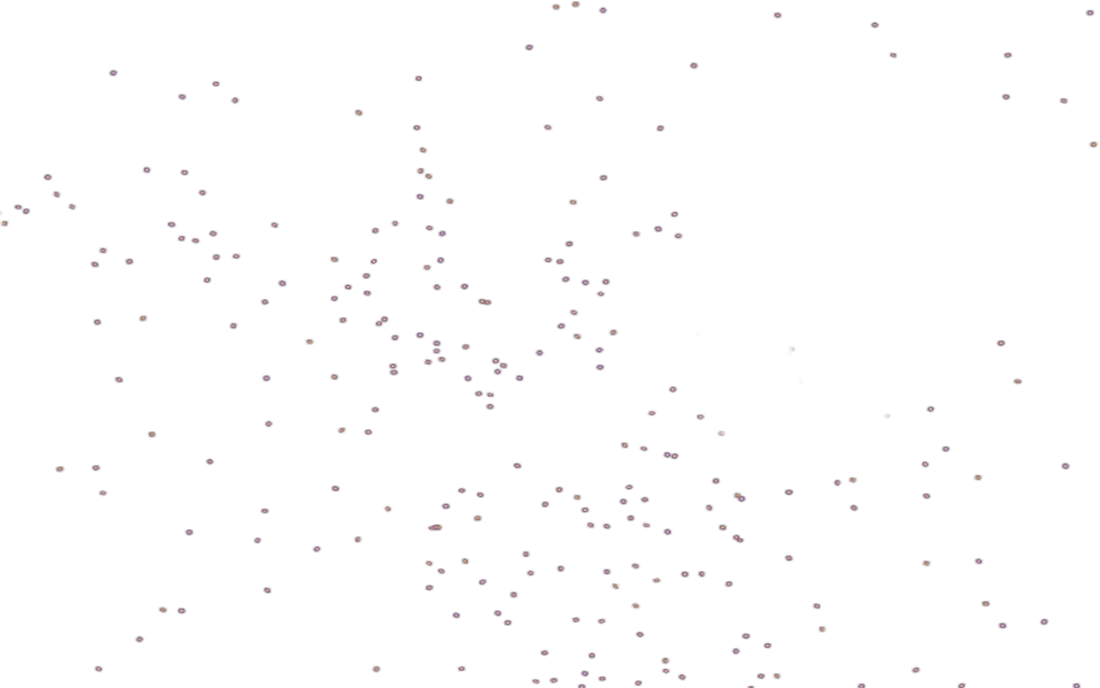
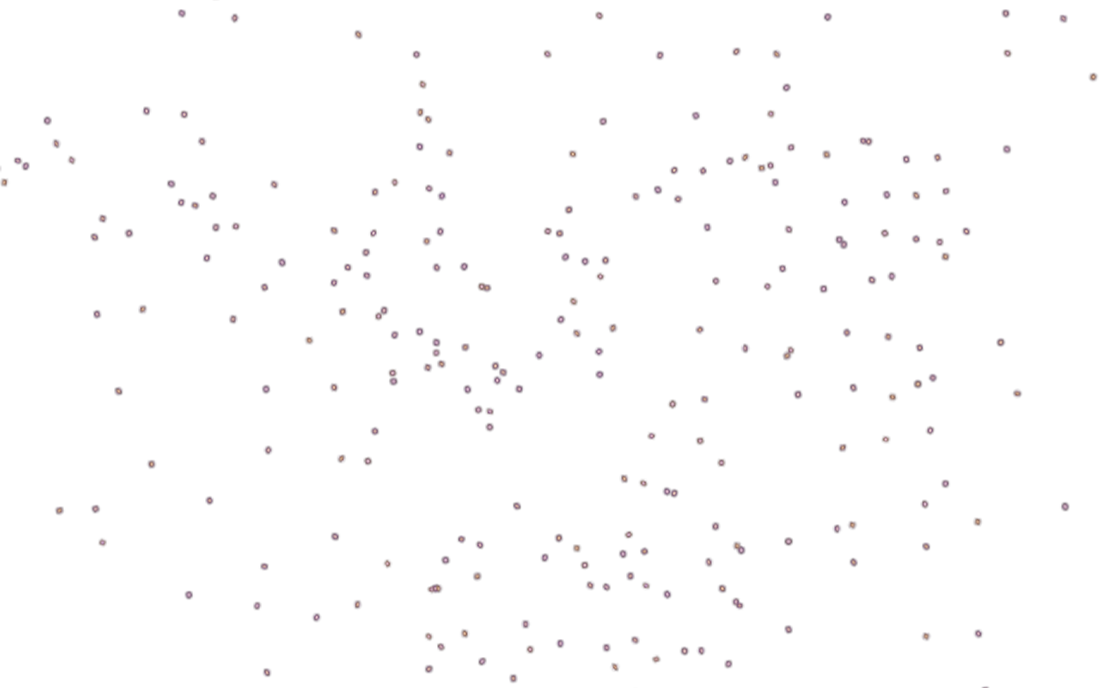
background moves

diff --git a/background.py b/background.py
@@ -9,38 +9,130 @@ screen = pygame.display.set_mode((w, h))
 
 
 
+# class Background(Sprite):
+#     def __init__(self):
+#         Sprite.__init__(self)
+       
+
+#         self.image = pygame.image.load("stars.png").convert_alpha()
+#         self.image_copy = self.image.copy()
+
+#         self.rect = self.image.get_rect()
+#         self.rect_copy = self.image_copy.get_rect()
+
+       
+
+#         self.rect.left = 0
+#         self.rect_copy.right = 0
+
+#         self.speedx = 10
+       
+#     def update(self):
+        
+
+#         self.rect.x -= self.speedx
+#         if self.rect.right < 0:
+#             self.rect.left = w
+
+#         self.rect_copy.x -= self.speedx
+#         if self.rect_copy.right < 0:
+#             self.rect_copy.left = w
+
 class Background(Sprite):
     def __init__(self):
-        pygame.sprite.Sprite.__init__(self)
+        Sprite.__init__(self)
+       
+
         self.image = pygame.image.load("stars.png").convert_alpha()
+   
+        self.rect = self.image.get_rect()
+
+        self.rect.right = 0
+      
+
+        self.speedx = 10
+       
+    def update(self):
+        
+
+        self.rect.x += self.speedx
+        if self.rect.left > w:
+            self.rect.right= 0
+
+       
+        
+class Background2(Sprite):
+    def __init__(self):
+        Sprite.__init__(self)
+        
+
+        self.image = pygame.image.load("stars.png").convert_alpha()
+
+        self.rect = self.image.get_rect()
+
+        self.rect.right = w
+        
+
+        self.speedx = 10
+        
+    def update(self):
+        
+
+        self.rect.x += self.speedx
+        if self.rect.left > w:
+            self.rect.right= 0
+    
+    
+
+class Background3(Sprite):
+    def __init__(self):
+        Sprite.__init__(self)
+        
+
+        self.image = pygame.image.load("test2.png").convert_alpha()
+
         self.rect = self.image.get_rect()
 
 
+class Background4(Sprite):
+    def __init__(self):
+        Sprite.__init__(self)
+        
 
+        self.image = pygame.image.load("mountain.png").convert_alpha()
+
+        self.rect = self.image.get_rect()
+
+        self.rect.left = 0
+        
+
+        self.speedx = 20
+        
     def update(self):
-
-        clock = pygame.time.Clock()
-
-        bgOne = self.image
-        bgTwo = self.image
-
-        bgOne2 = 0
-        bgTwo2 = bgOne.get_width()
-
-
-        screen.blit(bgOne, (bgOne2, 0))
-        screen.blit(bgTwo, (bgTwo2, 0))
-
-        pygame.display.update()
-
-        bgOne2 -= 1
-        bgTwo2 -= 1
-
-        if bgOne2 == -1 * bgOne.get_width():
-            bgOne2 = bgTwo2 + bgTwo.get_width()
-        if bgTwo == -1 * bgTwo.get_width():
-            bgTwo2 = bgOne2 + bgOne.get_width()
         
-        clock.tick(30)
 
+        self.rect.x -= self.speedx
+        if self.rect.right < 0:
+            self.rect.left= w
+
+
+class Background5(Sprite):
+    def __init__(self):
+        Sprite.__init__(self)
         
+
+        self.image = pygame.image.load("mountain.png").convert_alpha()
+
+        self.rect = self.image.get_rect()
+
+        self.rect.left = w
+        
+
+        self.speedx = 20
+        
+    def update(self):
+        
+
+        self.rect.x -= self.speedx
+        if self.rect.right < 0:
+            self.rect.left= w            

diff --git a/template.py b/template.py
@@ -15,7 +15,7 @@ h = Attributes["height"]
 f = Attributes["fps"]
 from Draw import draw_text, draw_shield_bar
 
-# from background import Background #===================================================BACKGROUND
+from background import Background, Background2, Background3, Background4, Background5
 
 
 
@@ -27,15 +27,14 @@ screen = pygame.display.set_mode((w, h))
 pygame.display.set_caption("Intergalactic Adventures of Pizza Cat")
 clock = pygame.time.Clock()
 
-startScreen = True
+running = False
 
 
 
 # ===========GRAPHICS & SOUND======================
 
-# background = Background() #===================================================BACKGROUND
-background = pygame.image.load("test.png").convert_alpha()
-background_rect = background.get_rect()
+# background = pygame.image.load("test.png").convert_alpha()
+# background_rect = background.get_rect()
 
 shoot_sound = pygame.mixer.Sound("pew.wav")
 expl_sounds = []
@@ -48,10 +47,17 @@ for snd in ['expl3.wav', 'expl6.wav']:
 #all sprites
 all_sprites = Group()
 player = Player()
+
+layer1 = Background()
+layer2 = Background2()
+layer3 = Background3()
+layer4 = Background4()
+layer5 = Background5()
+
 bullets = Group()
 asteroids = Group()
 
-all_sprites.add(player)
+all_sprites.add(layer1,layer2,layer3,layer4,layer5, player)
 
 #Monsters
 def newAsteroid():
@@ -68,18 +74,16 @@ def shoot(player):
         all_sprites.add(bullet)
         bullets.add(bullet)
 
-# =======GAME LOOP=======
 
-running = False
 
+# ===================================================START SCREEN==========================================
 intro = True
-
 
 pygame.mixer.music.load('Metroid.wav')
 pygame.mixer.music.set_volume(0.6)
 pygame.mixer.music.play(loops=-1)
 start = pygame.image.load("startScreen.jpg")
-print (start)
+
 while intro:
     clock.tick(f)
 
@@ -105,6 +109,8 @@ pygame.mixer.music.set_volume(0.6)
 
 pygame.mixer.music.load('GameMusic.wav')
 pygame.mixer.music.play(loops=-1)
+
+# ===================================================GAME LOOP==========================================
 
 while running == True:
 
@@ -147,10 +153,9 @@ while running == True:
     # Draw / render
   
     screen.fill(Colors["black"]) 
-    screen.blit(background, background_rect) 
+    # screen.blit(background, background_rect) 
     all_sprites.draw(screen)
-    
-
+  
     #player stats
     draw_text(screen, str(score), 30, w / 2, 10)
     draw_shield_bar(screen, 15, 15, player.shield)

diff --git a/Asteroid.py b/Asteroid.py
@@ -22,7 +22,7 @@ img8 = pygame.image.load("cookie3.png").convert_alpha()
 
 class Asteroid(Sprite):
     def __init__(self):
-        pygame.sprite.Sprite.__init__(self)
+        Sprite.__init__(self)
         
         #choose asteroid image
         randAstroid = [img1, img2, img3, img4, img5, img6, img7, img8]
@@ -40,7 +40,7 @@ class Asteroid(Sprite):
         self.rect.x = random.randrange(1200, 1400)
         self.rect.y = random.randrange(0, h)
         self.speedy = random.randrange(-3, 3)
-        self.speedx = random.randrange(1,8)
+        self.speedx = random.randrange(8,16)
 
         # For Rotation
         self.rot = 0
@@ -57,7 +57,7 @@ class Asteroid(Sprite):
             self.rect.x = random.randrange(1200, 1400)
             self.rect.y = random.randrange(0, h)
             
-            self.speedx = random.randrange(1,8)
+            self.speedx = random.randrange(8,16)
 
         self.rotate()
 

diff --git a/Bullet.py b/Bullet.py
@@ -29,6 +29,6 @@ class Bullet(Sprite):
 
         self.rect.right += self.speedx
 
-        # kill if it moves off the top of the screen
+        # kill if it moves beyond screen
         if self.rect.left > w:
             self.kill()
